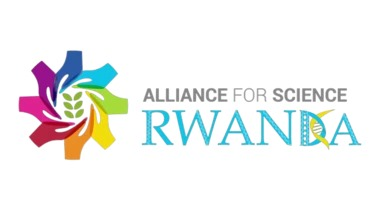
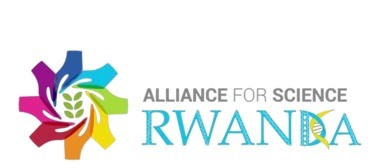
change

Changed region(s): [[0.3813, 0.4167, 0.968, 0.8929], [0.0293, 0.2381, 0.352, 0.9821]]

diff --git a/src/components/Partners/Partner.css b/src/components/Partners/Partner.css
@@ -1,8 +1,6 @@
 .partner {
   display: inline-block;
   margin: 10px;
-  /* width: 150px;
-  height: 150px; */
   text-align: left;
   vertical-align: middle;
   line-height: 150px; /* Adjust as needed */
@@ -11,14 +9,15 @@
 
 .partner-logo {
   width: 100%;
-  height: 100%;
+  height: 100px;
   vertical-align: middle;
   object-fit: contain;
 }
-/* @media screen and (max-width: 768px) {
-  .partner {
+@media screen and (max-width: 768px) {
+  .partner-logo {
     
     width: 100%;
-    height: 10%;
+    height: 70px;
   
-  } */
+  }
+}

diff --git a/src/Pages/About/About.jsx b/src/Pages/About/About.jsx
@@ -265,7 +265,7 @@ export default function Hub() {
       <h1 className='team-section-title'>PARTNERS</h1>
       <div className='team'>
         <div className='partner-section'>
-          <Partner logo={rab} link="https://www.rab.gov.rw/" />
+          <Partner logo={rab} link="https://www.rab.gov.rw/"  className="rab"/>
           <Partner logo={Allance} link="https://allianceforscience.org/" />
           <Partner logo={aatf} link="https://www.aatf-africa.org/" />
           <Partner logo={rmc} link="http://rmc.org.rw/" />

diff --git a/src/Pages/About/About.css b/src/Pages/About/About.css
@@ -115,8 +115,8 @@
 }
 
 .partener img {
-  width: 100%;
-  height: 40px;
+  width: 10%;
+  height: 30px;
   object-fit: cover;
 }
 
@@ -171,6 +171,10 @@
   font-size: 0.9rem;
   margin-bottom: 5px;
 }
+.rab{
+  width: 10%;
+  height: 10%;
+}
 
 @media (max-width: 768px) {
   .team-row {
@@ -193,7 +197,7 @@
 
   .partener {
     display: flex;
-    flex-direction: column;
+    /* flex-direction: column; */
     justify-content: center;
     align-items: center;
   }
